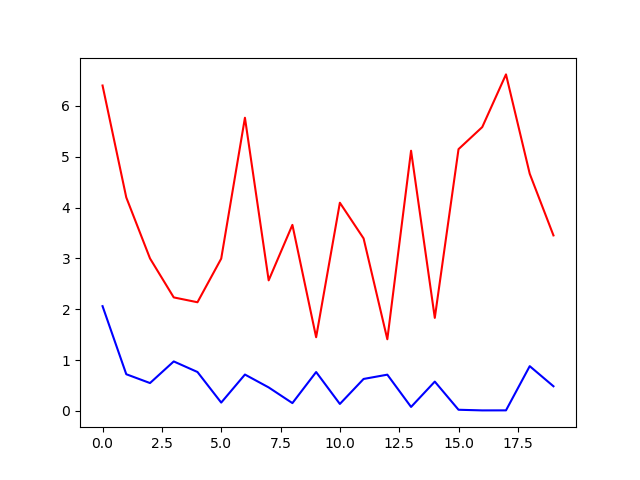
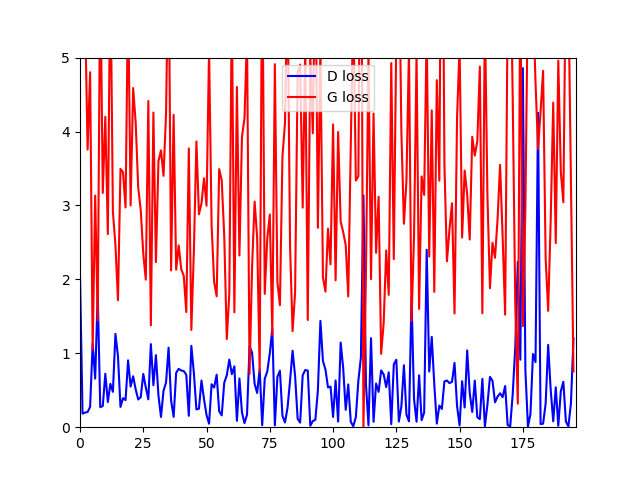
adv performance plotted

diff --git a/performance.py b/performance.py
@@ -26,11 +26,16 @@ def adv_performance(plot_frequency):
 
     f.close()
     iterations = range(len(D_losses))
-    plt.plot(iterations, D_losses, "b",
-    iterations, G_losses, "r")
+
+    d_losses, = plt.plot(iterations, D_losses, "b")
+    g_losses, = plt.plot(iterations, G_losses, "r")
+    plt.axis([0, len(D_losses), 0, 5])
     
-    outfile = os.path.join(opt.log_dir, "adv_performance.png")
-    plt.savefig(outfile)
+
+    plt.legend([d_losses, g_losses], ["D loss", "G loss"])
+    outf_path = os.path.join(opt.log_dir, "adv_performance.png")
+    plt.savefig(outf_path)
+    
 
 
 def compare_training(plot_frequency):
@@ -75,6 +80,6 @@ def compare_training(plot_frequency):
 
 
 
-# adv_performance(opt.plot_frequency)
+adv_performance(opt.plot_frequency)
 
-compare_training(opt.plot_frequency)
+# compare_training(opt.plot_frequency)
